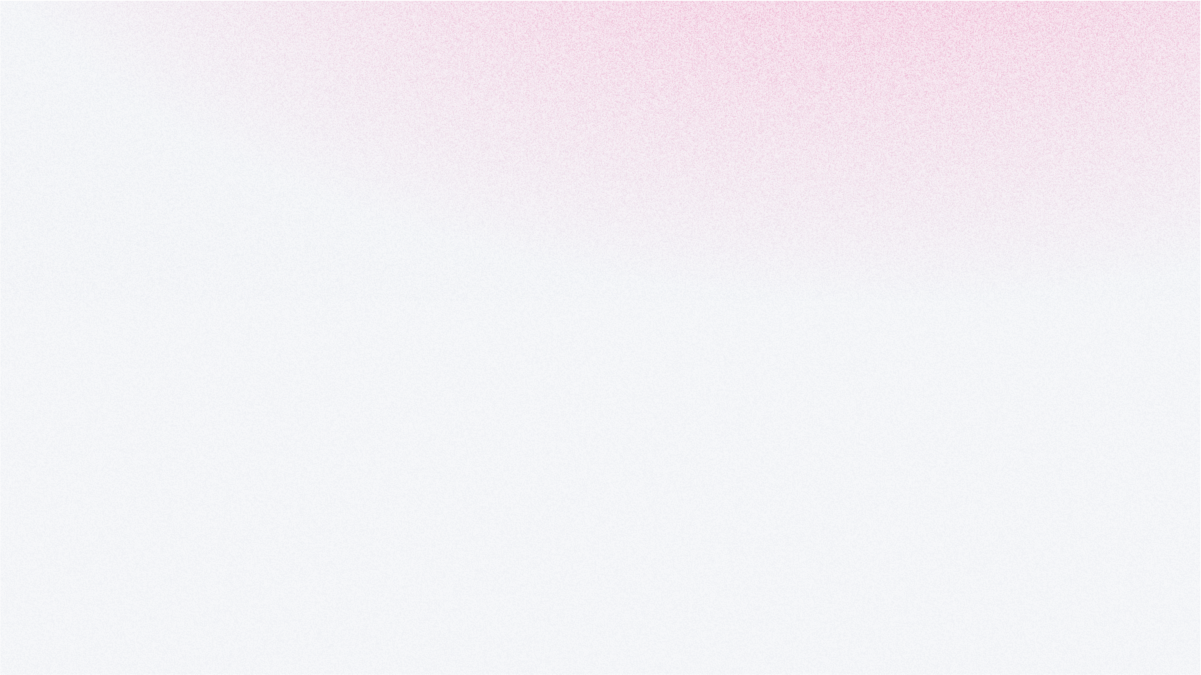
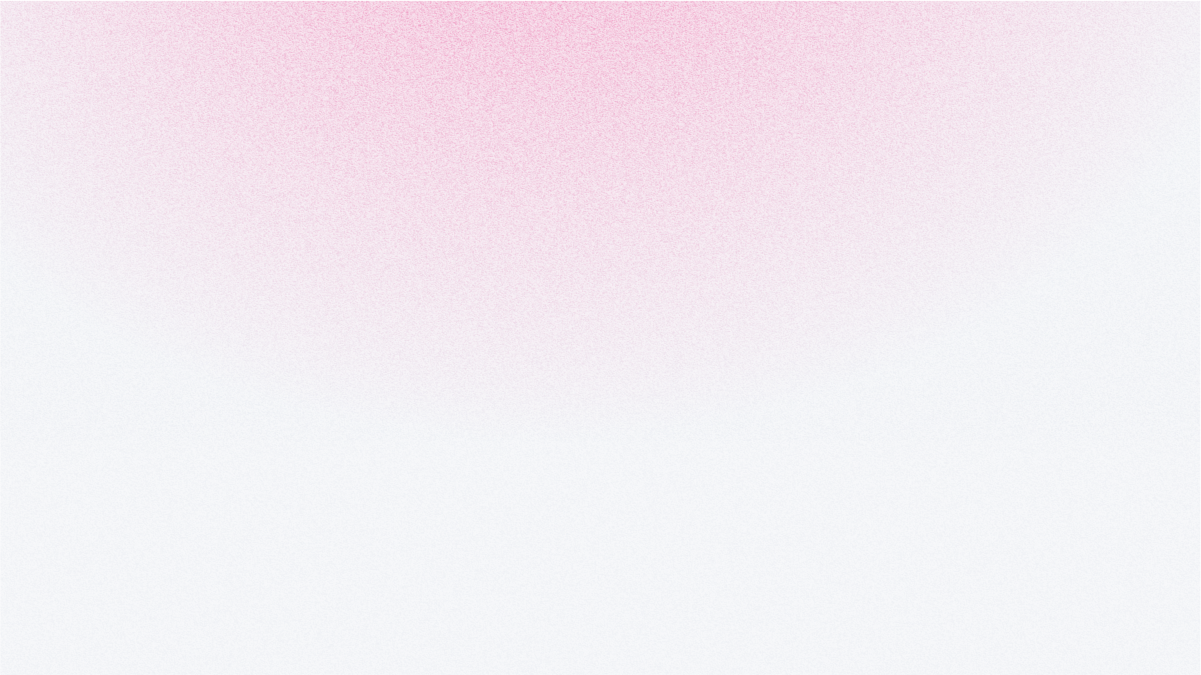
Table cleanup

Changed region(s): [[0.1232, 0.0, 0.5237, 0.3422], [0.9858, 0.0, 1.0, 0.0311]]

diff --git a/pages/index.tsx b/pages/index.tsx
@@ -78,15 +78,16 @@ const Home: NextPage = () => {
                   </thead>
                   <tbody>
                   {
-                    poolData.map((pool, idx) => (
-                        <tr key={idx+1} onClick={()=> {console.log(pool)}}>
-                          <td>{idx+1}</td>
-                          <td>{pool.token0.symbol + "/" + pool.token1.symbol}</td>
-                          <td>$ {roundNumber(pool.volumeUSD)}</td>
-                          <td>{roundNumber(pool.totalValueLockedETH)} ETH</td>
-                          <td>${roundNumber(pool.totalValueLockedUSD)}</td>
-                        </tr>
-                    ))  
+                    poolData.map((pool, idx) => {
+                      return (
+                          <tr onClick={()=> {console.log(pool)}} key={idx}>
+                            <td>{idx+1}</td>
+                            <td>{pool.token0.symbol + "/" + pool.token1.symbol}</td>
+                            <td>$ {roundNumber(pool.volumeUSD)}</td>
+                            <td>{roundNumber(pool.totalValueLockedETH)} ETH</td>
+                            <td>${roundNumber(pool.totalValueLockedUSD)}</td>
+                          </tr>
+                      )})  
                   }
                   </tbody>
                 </table>
@@ -94,7 +95,9 @@ const Home: NextPage = () => {
             </div>
           </div>
 
-          <div className={styles.swap}>{/* <h2>Swap</h2> */}</div>
+          <div className={styles.swap}>
+            <h2>Swap</h2>
+          </div>
 
           <ShowToast />
         </main>

diff --git a/styles/Home.module.css b/styles/Home.module.css
@@ -7,10 +7,6 @@
   align-items: center;
   height: 100%;
   width: 100%;
-  background-image: url('/assets/gradient.png');
-  background-position: center;
-  background-size: cover;
-  background-repeat: no-repeat;
 }
 
 .filter {
@@ -89,21 +85,18 @@
 }
 
 .pools {
+  margin-bottom: 50px;
+  display: flex;
+  flex-direction: column;
+
 }
 
-.table { 
-  width: 100%;
-  height: 100%;
-  padding-bottom: 50px;
-  background-color: rgba(0, 0, 0, 0.027);
-  border-radius: 20px;
-  border-color: rgb(234, 237, 240);
+.table tbody tr:hover{
+  color: rgb(116, 113, 113);
+  cursor: pointer;
+  user-select: none;
 }
 
-.td {
-  background: #000;
-  padding: 50px;
-}
 
 .swap {
 }

diff --git a/styles/globals.css b/styles/globals.css
@@ -13,3 +13,26 @@ a {
 * {
   box-sizing: border-box;
 }
+
+table { 
+  width: 100%;
+  height: 100%;
+  background-color: rgba(0, 0, 0, 0.027);
+  border-radius: 20px;
+  border-color: rgb(234, 237, 240);
+  border-collapse: collapse;
+}
+
+th {
+  padding-top: 10px;
+  padding-left: 10px;
+  padding-right: 10px;
+  padding-bottom: 8px;
+}
+
+td {
+  text-align: center;
+  font-size: 15px;
+  padding-top: 10px;
+  padding-bottom: 10px;
+}
